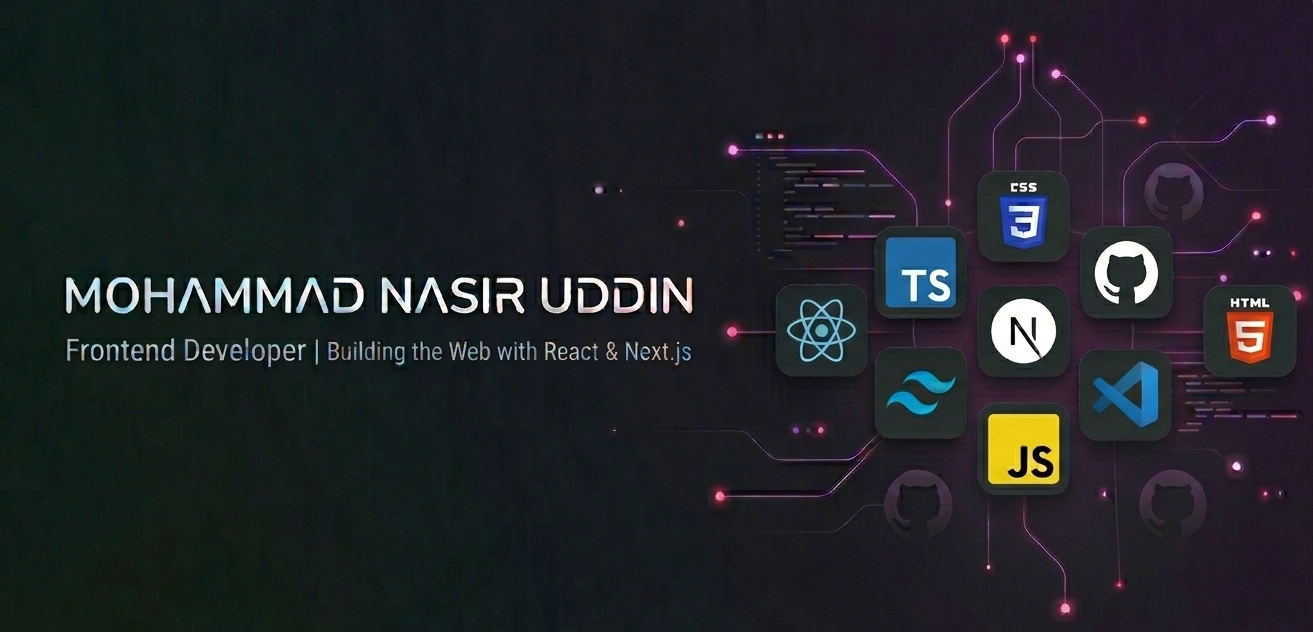
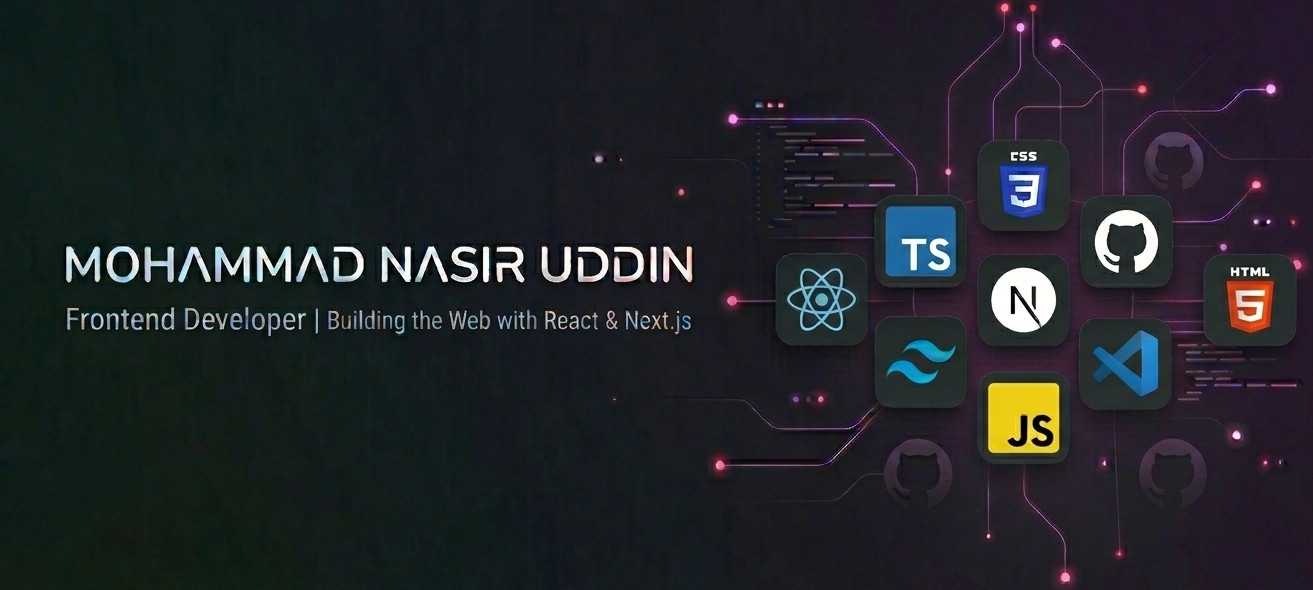
Remove greeting from README.md and update cover image

diff --git a/README.md b/README.md
@@ -1,5 +1,3 @@
-# 👋 Hi,
-
 <div align="center">
   <img width="100%" src="cover.png" alt="cover" />
 </div>
